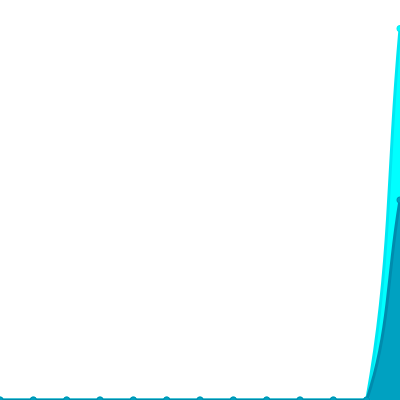
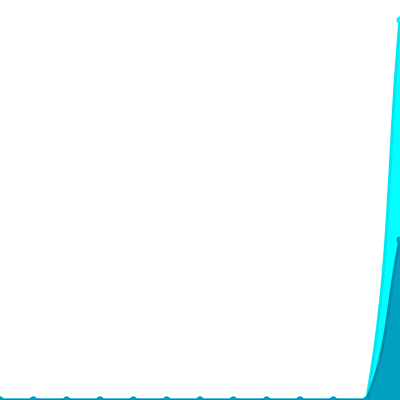
Update views

diff --git a/readme/330442903/year.md b/readme/330442903/year.md
@@ -23,10 +23,10 @@
 			<code>2021/11/1</code>
 		</td>
 		<td>
-			<code>7</code>
+			<code>8</code>
 		</td>
 		<td>
-			<code>13</code>
+			<code>19</code>
 		</td>
 	</tr>
 	<tr>
@@ -164,7 +164,7 @@
 </table>
 
 </details>
-<small><i>Last updated on 2021/11/15 6:13 AM UTC</i></small>
+<small><i>Last updated on 2021/11/15 12:17 PM UTC</i></small>
 
 ## ✂Copy and 📋 Paste
 ### SVG Badge

diff --git a/README.md b/README.md
@@ -37,7 +37,7 @@ The project created and maintained by [gayanvoice](https://github.com/gayanvoice
 	</tr>
 </table>
 
-<small><i>Last updated on 2021/11/15 6:13 AM UTC</i></small>
+<small><i>Last updated on 2021/11/15 12:17 PM UTC</i></small>
 
 ## ✂Copy and 📋 Paste
 ### Total Views Badge
